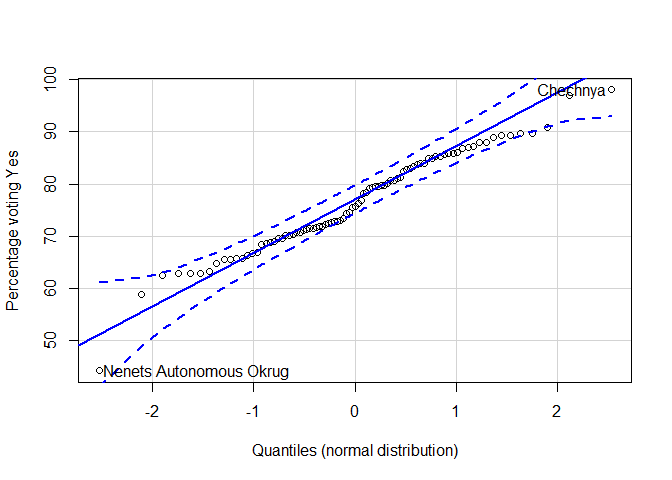
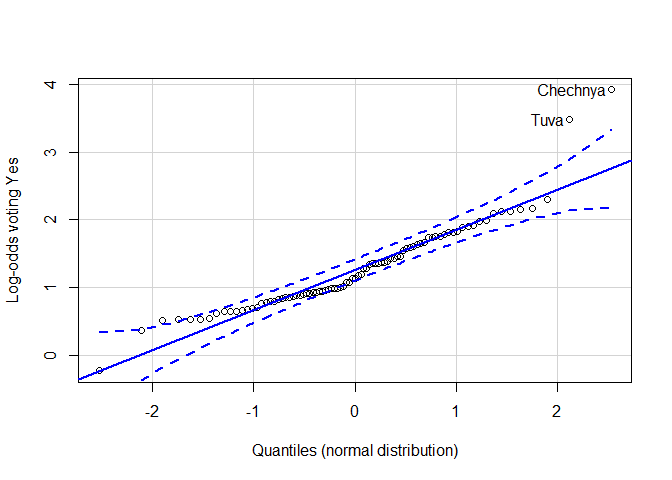
Fiddled with the map again

diff --git a/README.md b/README.md
@@ -2,7 +2,7 @@
 ================
 Andi (<almost@gmail.com>,
 @[inductivestep](https://twitter.com/InductiveStep))
-06 July 2020
+07 July 2020
 
 Using `rvest` to scrape the 2020 Russian constitutional referendum
 results from Wikipedia, do some sums, and plot them on a choropleth
@@ -2592,10 +2592,12 @@ hist(res_clean$Perc_Yes, main = "", xlab = "Percentage voting Yes")
 
 ![](README_files/figure-gfm/unnamed-chunk-14-1.png)<!-- -->
 
+Log-odds of voting…
+
 ``` r
-qq_res <- qqPlot(res_clean$Perc_Yes, id = list(labels = res_clean$Region),
+qq_res <- qqPlot(qlogis(res_clean$Perc_Yes / 100), id = list(labels = res_clean$Region),
                  xlab = "Quantiles (normal distribution)",
-                 ylab = "Percentage voting Yes")
+                 ylab = "Log-odds voting Yes")
 ```
 
 ![](README_files/figure-gfm/unnamed-chunk-15-1.png)<!-- -->
@@ -2699,7 +2701,7 @@ View(matched_region_names)
 ```
 
 No matches for Baikonur (the cosmodrome), Crimea or Sevastopol (which
-are Ukraine), or “Russians abroad” (that ain’t an oblast).
+are Ukraine), or “Russians abroad” (that ain’t no oblast).
 
 ### Glue together
 
@@ -2764,14 +2766,16 @@ ru_df_vals <- left_join(ru_df, for_map)
 ru_df_vals$region <- ru_df_vals$id # to prevent a message later...
 ```
 
-### Now really (really) plot the data
+Finally…\!
 
 ``` r
 ggplot(ru_df_vals, aes(long, lat)) +
   geom_map(map = ru_df_vals,
            aes(map_id = id, fill = Perc_Yes),
+           color = "gray",
            show.legend = T) +
   theme_void() +
+  theme(legend.position="bottom") +
   coord_map("azequalarea") + 
   xlim(15,190) +
   ylim(40,83) +
